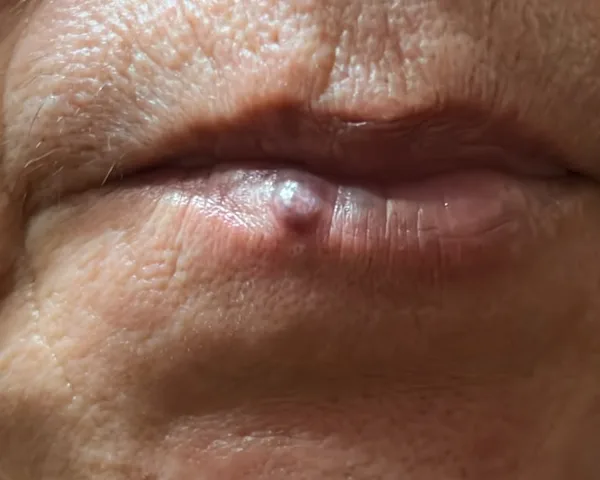
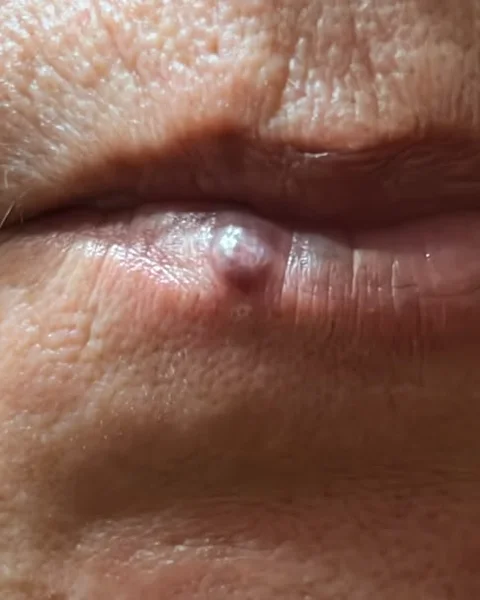
Новый порядок разделов: врач и работы сразу после услуг; губа до/после в плите папиллом

diff --git a/index.html b/index.html
@@ -29,7 +29,7 @@
 <link rel="stylesheet" href="https://fonts.googleapis.com/css2?family=Spectral:ital,wght@0,300;0,400;1,300&family=Onest:wght@400;500;600&display=swap">
 <link rel="preload" as="image" href="assets/img/hero-2.webp" media="(min-width:761px)" fetchpriority="high">
 <link rel="preload" as="image" href="assets/img/hero-m-2.webp" media="(max-width:760px)" fetchpriority="high">
-<link rel="stylesheet" href="styles.css?v=20261029-12">
+<link rel="stylesheet" href="styles.css?v=20261029-13">
 <script type="application/ld+json">
 {
   "@context": "https://schema.org",
@@ -91,8 +91,8 @@
       <a href="#pigmentaciya" data-i="nav.pigmentaciya">Пигментация</a>
       <a href="#morshchiny" data-i="nav.morshchiny">Морщины</a>
       <a href="#akne" data-i="nav.akne">Акне</a>
-      <a href="#uslugi" data-i="nav.uslugi">Все услуги</a>
       <a href="#vrach" data-i="nav.vrach">Врач</a>
+      <a href="#uslugi" data-i="nav.uslugi">Все услуги</a>
       <a href="#kontakty" data-i="nav.kontakty">Контакты</a>
     </nav>
     <div class="hdr-right">
@@ -116,9 +116,9 @@
     <li><a href="#pigmentaciya" data-i="m.pigmentaciya">Пигментация и веснушки</a></li>
     <li><a href="#morshchiny" data-i="m.morshchiny">Армирование лица</a></li>
     <li><a href="#akne" data-i="m.akne">Лечение акне</a></li>
-    <li><a href="#uslugi" data-i="m.uslugi">Все услуги и цены</a></li>
-    <li><a href="#raboty" data-i="m.raboty">Мои работы</a></li>
     <li><a href="#vrach" data-i="m.vrach">Врач</a></li>
+    <li><a href="#raboty" data-i="m.raboty">Мои работы</a></li>
+    <li><a href="#uslugi" data-i="m.uslugi">Все услуги и цены</a></li>
     <li><a href="#voprosy" data-i="m.voprosy">Вопросы</a></li>
     <li><a href="#kontakty" data-i="m.kontakty">Контакты</a></li>
   </ul>
@@ -189,7 +189,7 @@
   </section>
 </div>
 
-<!-- Плита 2: папилломы (фото справа, тёмная) -->
+<!-- Плита 2: папилломы (до/после справа, тёмная) -->
 <div class="pw dark" id="papillomy">
   <section class="plate" aria-labelledby="h-pap">
     <div class="svc">
@@ -205,18 +205,18 @@
           <a class="btn btn-gold" href="https://wa.me/77075254092" data-wa="papillomy" target="_blank" rel="noopener"><svg aria-hidden="true"><use href="#ic-wa"/></svg><span data-i="pap.price">Цена удаления папиллом</span></a>
         </div>
       </div>
-      <div class="ph has-img">
-        <div class="ph-veil"><img src="assets/img/pap-3.webp" alt="" aria-hidden="true" width="800" height="1000"></div>
-        <div class="ph-img">
-          <img src="assets/img/pap-3.webp" alt="Схема: папиллома на ножке и точечное удаление" data-i-alt="pap.alt" width="800" height="1000" loading="lazy" decoding="async">
+      <figure class="pap-ba">
+        <div class="ba">
+          <div class="ba-i"><img src="assets/img/guby-do.webp" alt="Образование на нижней губе до удаления" data-i-alt="rb.a8" width="480" height="600" loading="lazy" decoding="async"><span class="rb-tag" data-i="rb.before">До</span></div>
+          <div class="ba-i"><img src="assets/img/guby-posle.webp" alt="Нижняя губа после удаления образования" data-i-alt="rb.a8b" width="480" height="600" loading="lazy" decoding="async"><span class="rb-tag" data-i="rb.after">После</span></div>
         </div>
-        <svg class="ph-line" viewBox="0 0 100 100" aria-hidden="true"><path class="w" d=""/><path class="g" d=""/></svg>
-      </div>
+        <figcaption data-i="rb.c8">Образование на губе: до и после удаления</figcaption>
+      </figure>
     </div>
   </section>
 </div>
 
-<!-- Плита 3: диодный лазер (фото слева) -->
+<!-- Плита 3: диодный лазер (до/после слева) -->
 <div class="pw light r" id="lazer">
   <section class="plate" aria-labelledby="h-lz">
     <div class="svc">
@@ -309,6 +309,35 @@
   </div>
 </section>
 
+<!-- Врач -->
+<section class="sec mist smear" id="vrach" aria-labelledby="h-vr">
+  <div class="wrap doc rv">
+    <div class="ph r has-img">
+      <div class="ph-veil"><img src="assets/img/vrach-4.webp" alt="" aria-hidden="true" width="478" height="850"></div>
+      <div class="ph-img" data-loopbox>
+        <img src="assets/img/vrach-4.webp" alt="Врач-дерматокосметолог Гульмира в кабинете клиники Dermalux" data-i-alt="vr.alt" width="478" height="850" loading="lazy" decoding="async">
+        <video muted playsinline loop preload="none" data-loop="assets/video/vrach-loop.mp4" aria-hidden="true"></video>
+      </div>
+      <svg class="ph-line" viewBox="0 0 100 100" aria-hidden="true"><path class="w" d=""/><path class="g" d=""/></svg>
+    </div>
+    <div>
+      <p class="kick" data-i="vr.kick">Врач</p>
+      <h2 class="disp" id="h-vr" data-i="vr.h2">Гульмира</h2>
+      <p class="doc-role" data-i="vr.role">Врач-дерматокосметолог, основатель клиники Dermalux. 16 лет практики в дерматологии и косметологии.</p>
+      <q data-i="vr.q">Довожу начатое лечение до конца и сопровождаю пациента на всех этапах. Честность, прозрачность и никаких ложных обещаний.</q>
+      <ul class="dabs">
+        <li data-i="vr.l1">План лечения после осмотра, а не по прайсу</li>
+        <li data-i="vr.l2">Дерматоскоп, RF-аппарат и лазер - в своём кабинете</li>
+        <li data-i="vr.l3">Минимальный период реабилитации там, где это возможно</li>
+      </ul>
+      <div class="cta">
+        <a class="btn btn-gold" href="https://wa.me/77075254092" data-wa="vrach" target="_blank" rel="noopener"><svg aria-hidden="true"><use href="#ic-wa"/></svg><span data-i="vr.b1">Задать вопрос врачу</span></a>
+        <a class="btn btn-ghost" href="https://www.instagram.com/dr_gulmira_cosmetolog_/" target="_blank" rel="noopener"><svg aria-hidden="true"><use href="#ic-ig"/></svg><span data-i="vr.b2">Больше работ в Instagram</span></a>
+      </div>
+    </div>
+  </div>
+</section>
+
 <!-- Мои работы: лента роликов -->
 <section class="sec" id="raboty" aria-labelledby="h-rb">
   <div class="wrap">
@@ -386,44 +415,8 @@
         <figcaption id="rb-uhod" data-i="rb.c6">Уходовые процедуры для лица</figcaption>
       </figure>
     </div>
-    <figure class="ba-wide rv">
-      <div class="ba sens" data-sens="photo">
-        <div class="ba-i"><img src="assets/img/guby-do.webp" alt="Образование на нижней губе до удаления" data-i-alt="rb.a8" width="600" height="480" loading="lazy" decoding="async"><span class="rb-tag" data-i="rb.before">До</span></div>
-        <div class="ba-i"><img src="assets/img/guby-posle.webp" alt="Нижняя губа после удаления образования" data-i-alt="rb.a8b" width="600" height="480" loading="lazy" decoding="async"><span class="rb-tag" data-i="rb.after">После</span></div>
-      </div>
-      <figcaption data-i="rb.c8">Образование на губе: до и после удаления</figcaption>
-    </figure>
     <div class="rb-more">
       <a class="btn btn-ghost" href="https://www.instagram.com/dr_gulmira_cosmetolog_/" target="_blank" rel="noopener"><svg aria-hidden="true"><use href="#ic-ig"/></svg><span data-i="rb.ig">Больше работ в Instagram</span></a>
-    </div>
-  </div>
-</section>
-
-<!-- Врач -->
-<section class="sec mist smear" id="vrach" aria-labelledby="h-vr">
-  <div class="wrap doc rv">
-    <div class="ph r has-img">
-      <div class="ph-veil"><img src="assets/img/vrach-4.webp" alt="" aria-hidden="true" width="478" height="850"></div>
-      <div class="ph-img" data-loopbox>
-        <img src="assets/img/vrach-4.webp" alt="Врач-дерматокосметолог Гульмира в кабинете клиники Dermalux" data-i-alt="vr.alt" width="478" height="850" loading="lazy" decoding="async">
-        <video muted playsinline loop preload="none" data-loop="assets/video/vrach-loop.mp4" aria-hidden="true"></video>
-      </div>
-      <svg class="ph-line" viewBox="0 0 100 100" aria-hidden="true"><path class="w" d=""/><path class="g" d=""/></svg>
-    </div>
-    <div>
-      <p class="kick" data-i="vr.kick">Врач</p>
-      <h2 class="disp" id="h-vr" data-i="vr.h2">Гульмира</h2>
-      <p class="doc-role" data-i="vr.role">Врач-дерматокосметолог, основатель клиники Dermalux. 16 лет практики в дерматологии и косметологии.</p>
-      <q data-i="vr.q">Довожу начатое лечение до конца и сопровождаю пациента на всех этапах. Честность, прозрачность и никаких ложных обещаний.</q>
-      <ul class="dabs">
-        <li data-i="vr.l1">План лечения после осмотра, а не по прайсу</li>
-        <li data-i="vr.l2">Дерматоскоп, RF-аппарат и лазер - в своём кабинете</li>
-        <li data-i="vr.l3">Минимальный период реабилитации там, где это возможно</li>
-      </ul>
-      <div class="cta">
-        <a class="btn btn-gold" href="https://wa.me/77075254092" data-wa="vrach" target="_blank" rel="noopener"><svg aria-hidden="true"><use href="#ic-wa"/></svg><span data-i="vr.b1">Задать вопрос врачу</span></a>
-        <a class="btn btn-ghost" href="https://www.instagram.com/dr_gulmira_cosmetolog_/" target="_blank" rel="noopener"><svg aria-hidden="true"><use href="#ic-ig"/></svg><span data-i="vr.b2">Больше работ в Instagram</span></a>
-      </div>
     </div>
   </div>
 </section>
@@ -465,6 +458,35 @@
         <a class="btn btn-gold" href="https://wa.me/77075254092" data-wa="otzyvy" target="_blank" rel="noopener"><svg aria-hidden="true"><use href="#ic-wa"/></svg><span data-i="ot.b1">Записаться на консультацию</span></a>
         <a class="btn btn-ghost" href="https://www.instagram.com/dr_gulmira_cosmetolog_/" target="_blank" rel="noopener"><svg aria-hidden="true"><use href="#ic-ig"/></svg><span data-i="ot.b2">Истории пациентов в Instagram</span></a>
       </div>
+    </div>
+  </div>
+</section>
+
+<!-- Почему -->
+<section class="sec dark smear" id="pochemu" aria-labelledby="h-po">
+  <div class="wrap">
+    <div class="head rv">
+      <h2 class="disp" id="h-po" data-i="po.h2">Принимаю пациентов из Шымкента, Туркестана, Аксукента и Карабулака</h2>
+      <p class="lead" data-i="po.lead">А также из Ленгера, Сарыагаша, Казыгурта, Ордабасы и других населённых пунктов Туркестанской области.</p>
+    </div>
+    <div class="spec rv">
+      <p class="spec-l" data-i="po.spec">Специализация</p>
+      <ul class="dabs">
+        <li data-i="po.s1">Лечение акне, розацеа и других заболеваний кожи</li>
+        <li data-i="po.s2">Лечение мелазмы и гиперпигментации</li>
+        <li data-i="po.s3">Диагностика кожных новообразований</li>
+        <li data-i="po.s4">Удаление папиллом и других новообразований по показаниям</li>
+        <li data-i="po.s5">RF-лифтинг и армирование лица без операции</li>
+      </ul>
+      <a class="btn btn-gold" href="https://wa.me/77075254092" data-wa="pochemu" target="_blank" rel="noopener"><svg aria-hidden="true"><use href="#ic-wa"/></svg><span data-i="po.b">Записаться на консультацию в WhatsApp</span></a>
+    </div>
+    <div class="bento rv">
+      <div class="cell big"><div class="v">16 <small data-i="po.c1v">лет</small></div><p class="k" data-i="po.c1">практики в дерматологии и косметологии у врача-основателя клиники</p></div>
+      <div class="cell"><p class="k"><b data-i="po.c2b">Ежедневно <span class="num">9:00-18:00</span></b><br><span data-i="po.c2">без выходных, приём по записи</span></p></div>
+      <div class="cell"><p class="k"><b data-i="po.c3b">Дерматоскопия</b><br><span data-i="po.c3">перед удалением любого образования</span></p></div>
+      <div class="cell"><p class="k"><b data-i="po.c4b">План на весь курс</b><br><span data-i="po.c4">и сопровождение до конца лечения</span></p></div>
+      <div class="cell"><p class="k"><b data-i="po.c5b">Рассрочка</b><br><span data-i="po.c5">а также наличные и перевод</span></p></div>
+      <div class="cell wide"><p class="k"><b data-i="po.c6b">Врач говорит, что нужно, а что нет.</b> <span data-i="po.c6">Без лишних процедур и обещаний, которые медицина не может дать.</span></p></div>
     </div>
   </div>
 </section>
@@ -515,50 +537,6 @@
   </div>
 </section>
 
-<!-- Почему -->
-<section class="sec dark smear" id="pochemu" aria-labelledby="h-po">
-  <div class="wrap">
-    <div class="head rv">
-      <h2 class="disp" id="h-po" data-i="po.h2">Принимаю пациентов из Шымкента, Туркестана, Аксукента и Карабулака</h2>
-      <p class="lead" data-i="po.lead">А также из Ленгера, Сарыагаша, Казыгурта, Ордабасы и других населённых пунктов Туркестанской области.</p>
-    </div>
-    <div class="spec rv">
-      <p class="spec-l" data-i="po.spec">Специализация</p>
-      <ul class="dabs">
-        <li data-i="po.s1">Лечение акне, розацеа и других заболеваний кожи</li>
-        <li data-i="po.s2">Лечение мелазмы и гиперпигментации</li>
-        <li data-i="po.s3">Диагностика кожных новообразований</li>
-        <li data-i="po.s4">Удаление папиллом и других новообразований по показаниям</li>
-        <li data-i="po.s5">RF-лифтинг и армирование лица без операции</li>
-      </ul>
-      <a class="btn btn-gold" href="https://wa.me/77075254092" data-wa="pochemu" target="_blank" rel="noopener"><svg aria-hidden="true"><use href="#ic-wa"/></svg><span data-i="po.b">Записаться на консультацию в WhatsApp</span></a>
-    </div>
-    <div class="bento rv">
-      <div class="cell big"><div class="v">16 <small data-i="po.c1v">лет</small></div><p class="k" data-i="po.c1">практики в дерматологии и косметологии у врача-основателя клиники</p></div>
-      <div class="cell"><p class="k"><b data-i="po.c2b">Ежедневно <span class="num">9:00-18:00</span></b><br><span data-i="po.c2">без выходных, приём по записи</span></p></div>
-      <div class="cell"><p class="k"><b data-i="po.c3b">Дерматоскопия</b><br><span data-i="po.c3">перед удалением любого образования</span></p></div>
-      <div class="cell"><p class="k"><b data-i="po.c4b">План на весь курс</b><br><span data-i="po.c4">и сопровождение до конца лечения</span></p></div>
-      <div class="cell"><p class="k"><b data-i="po.c5b">Рассрочка</b><br><span data-i="po.c5">а также наличные и перевод</span></p></div>
-      <div class="cell wide"><p class="k"><b data-i="po.c6b">Врач говорит, что нужно, а что нет.</b> <span data-i="po.c6">Без лишних процедур и обещаний, которые медицина не может дать.</span></p></div>
-    </div>
-  </div>
-</section>
-
-<!-- Как проходит -->
-<section class="sec" id="kak" aria-labelledby="h-kak">
-  <div class="wrap">
-    <div class="head rv">
-      <h2 class="disp" id="h-kak" data-i="kak.h2">От сообщения в WhatsApp до контрольного осмотра</h2>
-    </div>
-    <div class="steps rv">
-      <div class="step"><i>01</i><h3 data-i="kak.s1">Напишите в WhatsApp</h3><p data-i="kak.s1t">Менеджер Назмина отвечает ежедневно с 9:00 до 18:00 и подбирает время приёма.</p></div>
-      <div class="step"><i>02</i><h3 data-i="kak.s2">Осмотр и дерматоскопия</h3><p data-i="kak.s2t">Врач смотрит кожу и образования, задаёт вопросы, называет стоимость.</p></div>
-      <div class="step"><i>03</i><h3 data-i="kak.s3">Процедура или курс</h3><p data-i="kak.s3t">Удаление за один визит или план лечения с понятными этапами.</p></div>
-      <div class="step"><i>04</i><h3 data-i="kak.s4">Сопровождение</h3><p data-i="kak.s4t">Рекомендации по уходу и контрольный осмотр. Вопросы можно задать в WhatsApp.</p></div>
-    </div>
-  </div>
-</section>
-
 <!-- Клиника: фото-плита -->
 <div class="pw pw-kl dark" id="klinika">
   <section class="plate" aria-labelledby="h-kl">
@@ -581,6 +559,21 @@
     </div>
   </section>
 </div>
+
+<!-- Как проходит -->
+<section class="sec" id="kak" aria-labelledby="h-kak">
+  <div class="wrap">
+    <div class="head rv">
+      <h2 class="disp" id="h-kak" data-i="kak.h2">От сообщения в WhatsApp до контрольного осмотра</h2>
+    </div>
+    <div class="steps rv">
+      <div class="step"><i>01</i><h3 data-i="kak.s1">Напишите в WhatsApp</h3><p data-i="kak.s1t">Менеджер Назмина отвечает ежедневно с 9:00 до 18:00 и подбирает время приёма.</p></div>
+      <div class="step"><i>02</i><h3 data-i="kak.s2">Осмотр и дерматоскопия</h3><p data-i="kak.s2t">Врач смотрит кожу и образования, задаёт вопросы, называет стоимость.</p></div>
+      <div class="step"><i>03</i><h3 data-i="kak.s3">Процедура или курс</h3><p data-i="kak.s3t">Удаление за один визит или план лечения с понятными этапами.</p></div>
+      <div class="step"><i>04</i><h3 data-i="kak.s4">Сопровождение</h3><p data-i="kak.s4t">Рекомендации по уходу и контрольный осмотр. Вопросы можно задать в WhatsApp.</p></div>
+    </div>
+  </div>
+</section>
 
 <!-- Вопросы -->
 <section class="sec mist" id="voprosy" aria-labelledby="h-fq">
@@ -681,6 +674,6 @@
   <a href="https://www.instagram.com/dr_gulmira_cosmetolog_/" target="_blank" rel="noopener" aria-label="Instagram" style="border-left:1px solid rgba(255,255,255,.14)"><svg aria-hidden="true"><use href="#ic-ig"/></svg></a>
 </nav>
 
-<script src="script.js?v=20261029-12" defer></script>
+<script src="script.js?v=20261029-13" defer></script>
 </body>
 </html>

diff --git a/styles.css b/styles.css
@@ -600,7 +600,8 @@ body.menu-open .hdr{z-index:70}
 .sens:not(.shown) .ba-i{overflow:hidden}
 .lz-ba{align-self:center;justify-self:center;width:100%;max-width:520px}
 .pw.r .svc .lz-ba{order:-1}
-.ba-wide{margin:40px 0 0;max-width:820px}
-.ba-wide figcaption{margin-top:12px;font-size:14px;line-height:1.4;color:var(--mute)}
 @media (max-width:760px){.svc .lz-ba{order:-1;width:calc(100% - 32px);margin:20px auto 0}.ba .rb-tag{bottom:8px;left:8px}}
 .lz-ba .rb-tag{top:12px;bottom:auto}
+.pap-ba{margin:0;align-self:center;justify-self:center;width:100%;max-width:520px}
+.pap-ba figcaption{margin-top:12px;font-size:14px;line-height:1.4;color:var(--mute)}
+@media (max-width:760px){.svc .pap-ba{order:-1;width:calc(100% - 32px);margin:20px auto 0}}
